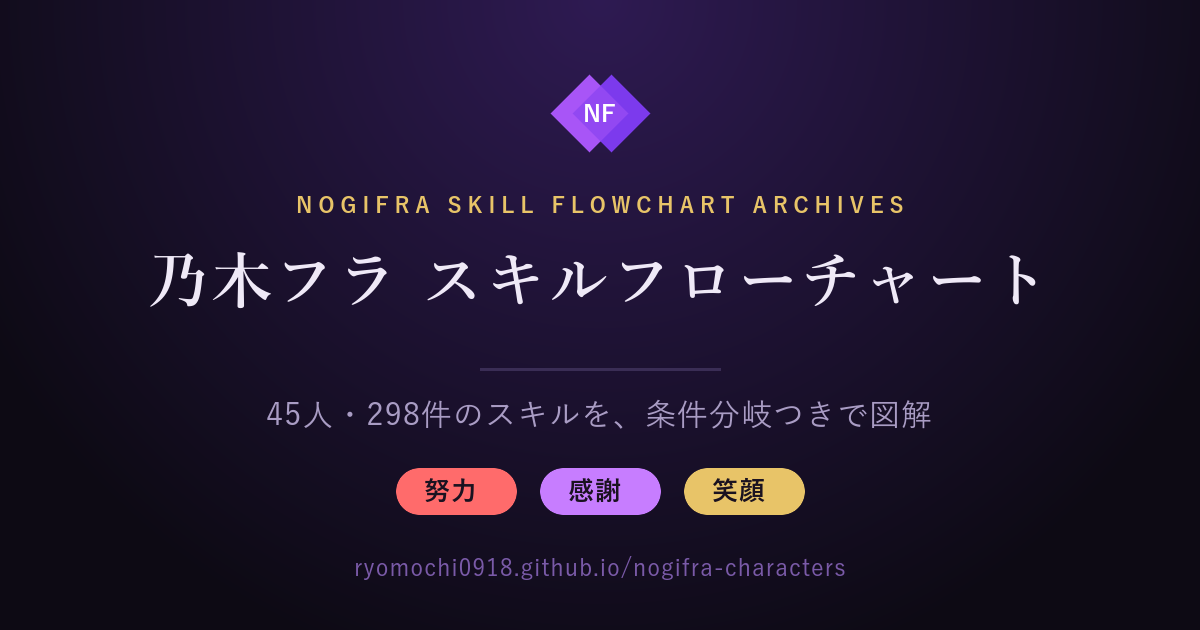
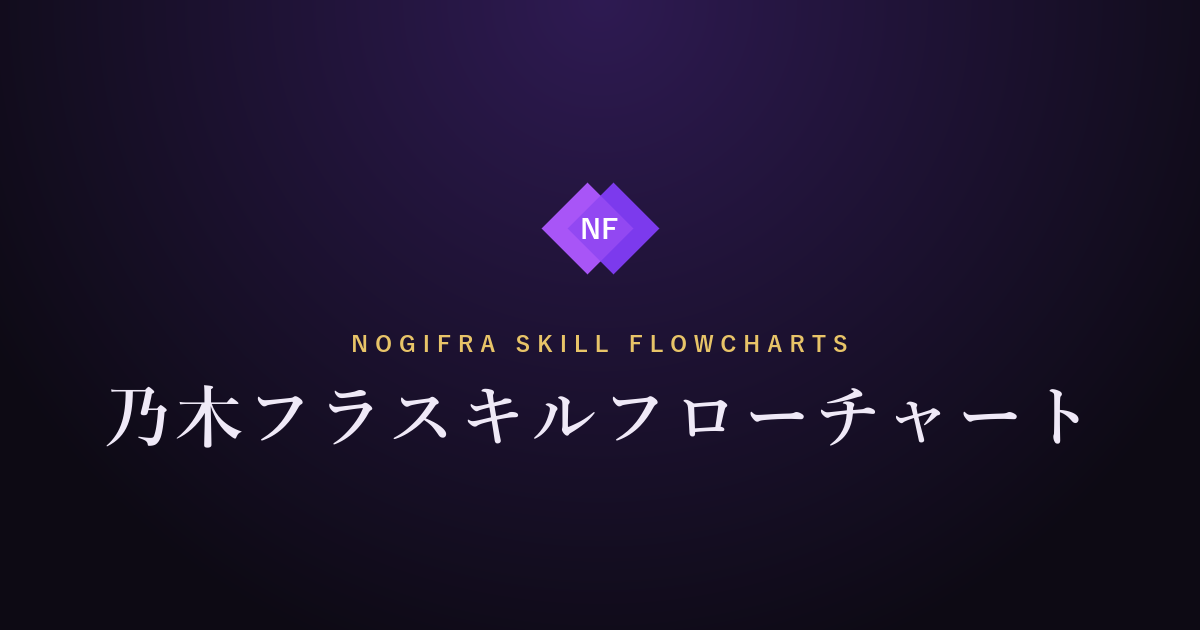
OGP画像を簡素化し、見出しの英字ラベルを Nogifra Skill Flowcharts に変更
assets/ogp.png から説明文・件数・URL・属性チップを削除し、ロゴと
英字ラベルとタイトルだけにした。キャラ数や件数は新ガチャのたびに
変わるため、画像にもメタタグにも焼き込まない方針にする。

あわせて index.html の header .eyebrow を
「Nogifra Skill Flowchart Archives」→「Nogifra Skill Flowcharts」に変更。
卒業済みメンバーをデフォルトで非表示にしている(js/index.js の
gradFilter)とおり、このサイトは現行キャラを調べる用途が主で、
「保管庫」を意味する Archives は実態とずれるため落とした。
末尾の名詞を落とすと Flowchart 自体が主名詞になるので複数形にしている。

メタタグの説明文からも件数を削除し、あわせて実態に合わせて
「全キャラ」→「LRキャラ」に訂正した。

diff --git a/index.html b/index.html
@@ -6,7 +6,7 @@
     <title>乃木フラ - スキルフローチャート図鑑</title>
     <meta
       name="description"
-      content="乃木フラ全キャラのスキルを、条件分岐つきのフローチャートで図解。45人・298件。キャラ／期／タイプで絞り込め、原文も併記しています。"
+      content="乃木フラのLRキャラのスキルを、条件分岐つきのフローチャートで図解。キャラ／期／タイプで絞り込め、スキルの原文も併記しています。"
     />
     <link rel="canonical" href="https://ryomochi0918.github.io/nogifra-characters/" />
 
@@ -15,7 +15,7 @@
     <meta property="og:title" content="乃木フラ スキルフローチャート図鑑" />
     <meta
       property="og:description"
-      content="乃木フラ全キャラのスキルを、条件分岐つきのフローチャートで図解。45人・298件。キャラ／期／タイプで絞り込め、原文も併記しています。"
+      content="乃木フラのLRキャラのスキルを、条件分岐つきのフローチャートで図解。キャラ／期／タイプで絞り込め、スキルの原文も併記しています。"
     />
     <meta property="og:url" content="https://ryomochi0918.github.io/nogifra-characters/" />
     <meta
@@ -24,14 +24,14 @@
     />
     <meta property="og:image:width" content="1200" />
     <meta property="og:image:height" content="630" />
-    <meta property="og:image:alt" content="乃木フラ スキルフローチャート - 45人・298件のスキルを条件分岐つきで図解" />
+    <meta property="og:image:alt" content="乃木フラ スキルフローチャート" />
     <meta property="og:locale" content="ja_JP" />
 
     <meta name="twitter:card" content="summary_large_image" />
     <meta name="twitter:title" content="乃木フラ スキルフローチャート図鑑" />
     <meta
       name="twitter:description"
-      content="乃木フラ全キャラのスキルを、条件分岐つきのフローチャートで図解。45人・298件。キャラ／期／タイプで絞り込め、原文も併記しています。"
+      content="乃木フラのLRキャラのスキルを、条件分岐つきのフローチャートで図解。キャラ／期／タイプで絞り込め、スキルの原文も併記しています。"
     />
     <meta
       name="twitter:image"
@@ -55,7 +55,7 @@
         width="56"
         height="56"
       />
-      <div class="eyebrow">Nogifra Skill Flowchart Archives</div>
+      <div class="eyebrow">Nogifra Skill Flowcharts</div>
       <h1>乃木フラスキル<br />フローチャート</h1>
       <p>キャラクターを選ぶと、スキル説明とフローチャートを確認できます。</p>
     </header>
